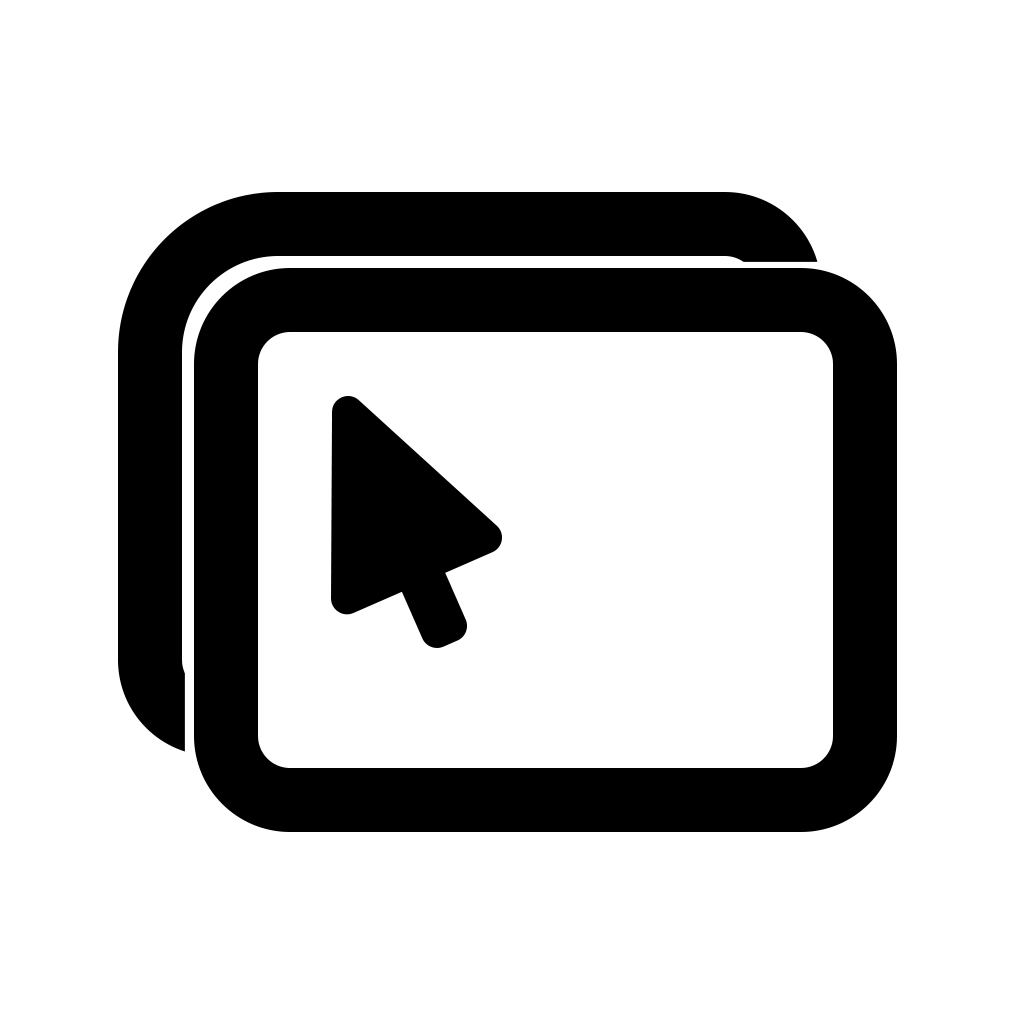
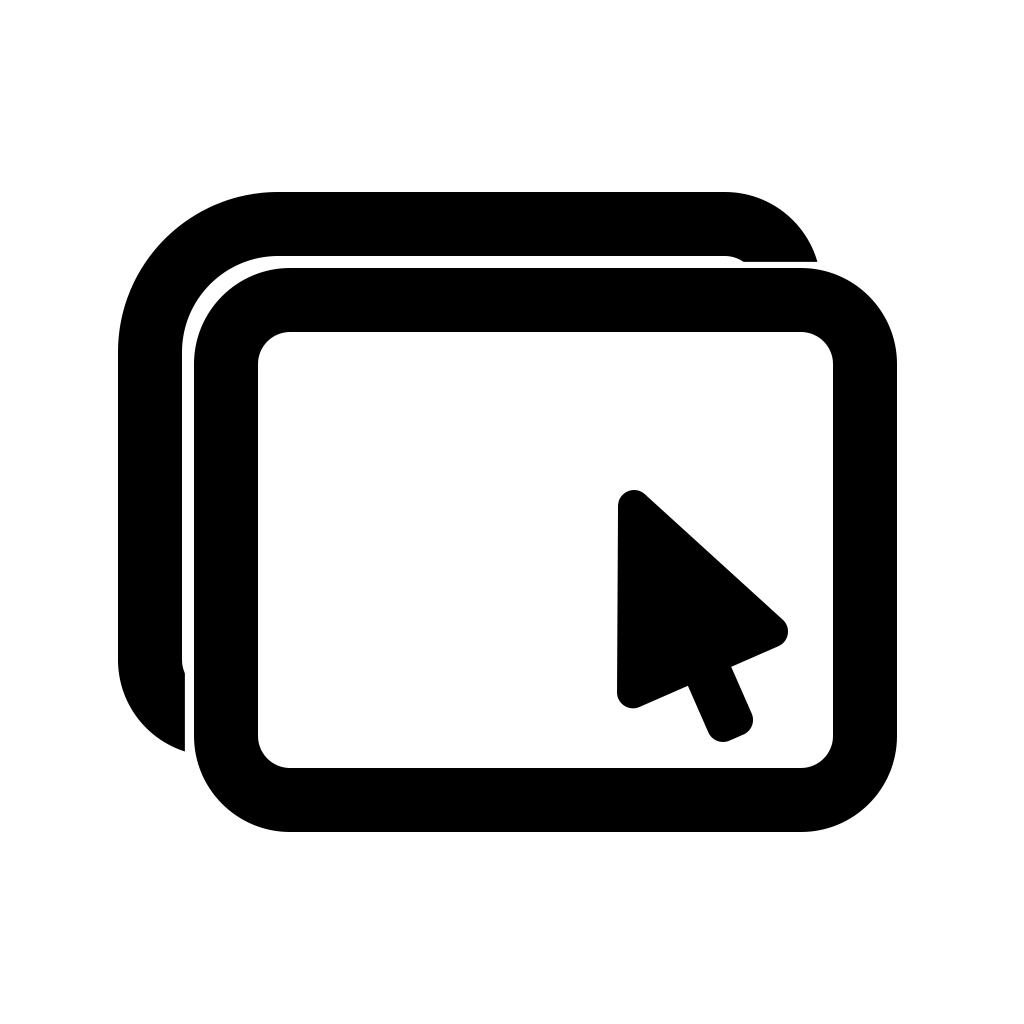
重绘部分UI，支持深色/浅色模式切换

Changed region(s): [[0.5938, 0.4688, 0.7812, 0.75], [0.3125, 0.375, 0.5, 0.6562]]

diff --git a/qml/components/TypeBar.qml b/qml/components/TypeBar.qml
@@ -1,10 +1,11 @@
+pragma ComponentBehavior: Bound
 import QtQuick
 import xcshop
 
 Rectangle {
     id: typeBar
     height: parent.height
-    width: 65
+    width: Constants.typeBarWidth
     color: Colors.foreground
     opacity: 0
     enabled: isEnabled
@@ -53,12 +54,12 @@ Rectangle {
     Rectangle{
         id: currentTypeRect
         z: 10
-        width:5
-        height: 64
+        width:3
+        height: Constants.typeBarWidth - 1
         x: 2
-        y: (typeBar.currentType == 0)? 1 : 3 + typeBar.currentType*64
+        y: (typeBar.currentType == 0)? 1 : 3 + typeBar.currentType * Constants.typeBarWidth
         color: Colors.border
-        //radius: 5
+        radius: 2
         Behavior on y{
             NumberAnimation{
                 duration: 120 / Global.animationSpeed
@@ -67,116 +68,92 @@ Rectangle {
         }
     }
 
-
-    ImageButton{
-        id: typeButtonTotal
+    component TypeButtonComponent: ImageButton{
+        id: typeButton
+        property string typeValue
         freeze: typeBar.freeze
-        z: 0
-        y: 1
-        btnSize: 64
-        imgSize: 48
-        btnRadius: 0
-        imageSource: "qrc:/assets/gui/typeBar/Total.png"
+        btnSize: Constants.typeBarWidth
+        imgSize: Constants.typeBarWidth * 3/4
+        btnRadius: 4
+        imageSource: "qrc:/assets/gui/typeBar/" + typeValue + "_" + Colors.gui_theme + ".png"
         btnSelected:(typeBar.currentType == z) ? true : false
         onClicked: {
+            if (typeValue == "更多") return
             typeBar.currentType = z
             setColor()
-            typeBar.typeBtnClicked("Total")
+            typeBar.typeBtnClicked(typeValue)
         }
+        Rectangle{
+            id: typeLore
+            visible: typeButton.hovered
+            height: 20
+            width: loreText.width + 16
+            anchors.verticalCenter: parent.verticalCenter
+            x: parent.width + 4
+            radius: 4
+            color: Colors.background_n
+            border.width: 1
+            border.color: Colors.border
+            XCText{
+                id: loreText
+                x: 8
+                y: 2
+                text: typeButton.typeValue
+                font.pixelSize: 12
+                color: Colors.text
+            }
+        }
+    }
+
+    TypeButtonComponent{
+        id: typeButtonTotal
+        z: 0
+        y: 1
+        typeValue: "Global"
     }
     Rectangle{
         width: parent.width
-        y: 65
+        y: Constants.typeBarWidth
         height: 2
-        color: "#FFFFFF"
+        color: Colors.gui_theme == "dark" ? "black" : "white"
     }
 
     Column{
         id: typeColumn
         width: parent.width
-        height: parent.height - 66
-        y: 67
+        height: parent.height - Constants.typeBarWidth
+        y: Constants.typeBarWidth + 2
 
-        ImageButton{
+        TypeButtonComponent{
             id: typeButtonUI
-            freeze: typeBar.freeze
             z: 1
-            y: 0
-            btnSize: 64
-            imgSize: 48
-            btnRadius: 0
-            imageSource: "qrc:/assets/gui/typeBar/UI_" + Colors.gui_theme + ".png"
-
-            btnSelected:(typeBar.currentType == z) ? true : false
-            onClicked: {
-                typeBar.currentType = z
-                setColor()
-                typeBar.typeBtnClicked("UI")
-            }
+            typeValue: "UI"
         }
-        ImageButton{
+        TypeButtonComponent{
             id: typeButtonItem
-            freeze: typeBar.freeze
             z: 2
-            y: 64
-            btnSize: 64
-            imgSize: 48
-            btnRadius: 0
-            imageSource: "qrc:/assets/gui/typeBar/Item.png"
-
-            btnSelected:(typeBar.currentType == z) ? true : false
-            onClicked: {
-                typeBar.currentType = z
-                setColor()
-                typeBar.typeBtnClicked("Item")
-            }
+            typeValue: "Item"
         }
-        ImageButton{
+        TypeButtonComponent{
             id: typeButtonCost
-            freeze: typeBar.freeze
             z: 3
-            y: 128
-            btnSize: 64
-            imgSize: 48
-            btnRadius: 0
-            imageSource: "qrc:/assets/gui/typeBar/Cost.png"
-
-            btnSelected:(typeBar.currentType == z) ? true : false
-            onClicked: {
-                typeBar.currentType = z
-                setColor()
-                typeBar.typeBtnClicked("Cost")
-            }
+            typeValue: "Cost"
         }
-        ImageButton{
+        TypeButtonComponent{
             id: typeButtonDisplay
-            freeze: typeBar.freeze
             z: 4
-            y: 192
-            btnSize: 64
-            imgSize: 48
-            btnRadius: 0
-            imageSource: "qrc:/assets/gui/typeBar/Display.png"
-
-            btnSelected:(typeBar.currentType == z) ? true : false
-            onClicked: {
-                typeBar.currentType = z
-                setColor()
-                typeBar.typeBtnClicked("Display")
-            }
+            typeValue: "Display"
         }
 
     }
 
-    ImageButton{
+    TypeButtonComponent{
         id: typeButtonExtra
-        freeze: typeBar.freeze
+        freeze: false
         z: 12
         y: parent.height - height
-        btnSize: 64
-        imgSize: 48
-        btnRadius: 32
-        imageSource: "qrc:/assets/gui/typeBar/Display.png"
+        imageSource: "qrc:/assets/gui/typeBar/Extra_" + Colors.gui_theme + ".png"
+        typeValue: "更多"
 
         onClicked:{
             typeBar.extraMenuOpened = !typeBar.extraMenuOpened

diff --git a/qml/Main.qml b/qml/Main.qml
@@ -71,14 +71,14 @@ XCWindow {
             Global.current_element = typeName   //after的作用是取消动画
             // 中转区可以直接调用 typeSwitch；同步类型栏的视觉选中态，不能只依赖按钮点击。
             switch(typeName){
-                case "Total": typeBar.currentType = 0; break
+                case "Global": typeBar.currentType = 0; break
                 case "UI": typeBar.currentType = 1; break
                 case "Item": typeBar.currentType = 2; break
                 case "Cost": typeBar.currentType = 3; break
                 case "Display": typeBar.currentType = 4; break
             }
             if(!after)elementExplorer.floderReset()
-            if(typeName === "Total"){
+            if(typeName === "Global"){
                 elementExplorer.barHide()
                 pageLoader.pageSwitch(Constants.pageOnTotal)
             }else{
@@ -212,7 +212,7 @@ XCWindow {
             id:pageLoader
             parent: popupBlurSource
             
-            x: Math.max(root.pageX,65)
+            x: Math.max(root.pageX, Constants.typeBarWidth)
             y: root.workspaceChromeVisible ? fileControlsBar.height : 0
             height: Math.max(0, root.height - y - elementRelayBar.height)
             width: root.workspaceChromeVisible ? root.width - x : root.width - x + 65
@@ -274,7 +274,7 @@ XCWindow {
                             switch(parameters.object){
                                 case "projectOpened":
                                     typeBar.enable(false)
-                                    root.typeSwitch("Total", true)
+                                    root.typeSwitch("Global", true)
                                 break;case "settings":
                                     root.settingsFromWorkspace = false
                                     pageLoader.pageSwitch(Constants.pageOnSettings)

diff --git a/qml/components/base/ImageButton.qml b/qml/components/base/ImageButton.qml
@@ -13,9 +13,9 @@ Rectangle {
     property int btnRadius: 3
     property bool btnSelected: false
     property bool freeze: false
-    property bool hovered: false
     property bool pressed: false
     property int imgSize_: imgSize
+    readonly property bool hovered : hoverHandler.hovered
 
     signal clicked()
 
@@ -50,17 +50,18 @@ Rectangle {
         NumberAnimation { duration: 50 / Global.animationSpeed; easing.type: Easing.InOutQuad }
     }
 
+    HoverHandler{
+        id: hoverHandler
+    }
     MouseArea {
         visible: !root.btnSelected && !root.freeze && root.enabled
         anchors.fill: parent
         hoverEnabled: true
         onClicked: root.clicked()
         onEntered: {
-            root.hovered = true
             root.imgSize_ = root.imgSize + 6
         }
         onExited: {
-            root.hovered = false
             root.pressed = false
             root.imgSize_ = root.imgSize
         }

diff --git a/qml/components/FileSystem/FileCtrlBar.qml b/qml/components/FileSystem/FileCtrlBar.qml
@@ -66,7 +66,7 @@ Item{
         y: 5
         btnSize: 24
         btnRadius: 3
-        imageSource: "qrc:/assets/gui/element/Bar/newMenu.png"
+        imageSource: "qrc:/assets/gui/element/Bar/newMenu_" + Colors.gui_theme + ".png"
         onClicked:{
             root.createFloder = true
             createBar.visible = true
@@ -77,7 +77,7 @@ Item{
         y: 5
         btnSize: 24
         btnRadius: 3
-        imageSource: "qrc:/assets/gui/element/Bar/newFile.png"
+        imageSource: "qrc:/assets/gui/element/Bar/newFile_" + Colors.gui_theme + ".png"
         onClicked:{
             root.createFloder = false
             createBar.visible = true

diff --git a/qml/components/ElementExplorer.qml b/qml/components/ElementExplorer.qml
@@ -12,7 +12,7 @@ Rectangle{
     readonly property bool started: Global.get_fileName().length > 0
     width: isShowing ? barWidth : 0
     height: parent.height
-    x:65
+    x: Constants.typeBarWidth
     color: Colors.foreground
     clip: true
     enabled: isShowing
@@ -49,7 +49,7 @@ Rectangle{
         onTriggered:{
             xcFileTree.currentFolder = root.pendingFolder
             root.pendingFolder = ""
-            if(Global.current_element != "Total")treeAnim.start()
+            if(Global.current_element != "Global")treeAnim.start()
         }
         
     }

diff --git a/qml/Global.qml b/qml/Global.qml
@@ -31,12 +31,12 @@ QtObject{
 
 
 
-    property string current_element: "Total"
+    property string current_element: "Global"
     property int current_enum: 0     //enum:element_number，用于以数字形式存储元素类型
     onCurrent_elementChanged:{
         function set_enum(){
             switch(current_element){
-            case   "Total":return 0
+            case   "Global":return 0
             case      "UI":return 1
             case    "Item":return 2
             case    "Cost":return 3

diff --git a/qml/components/base/ElementSelection.qml b/qml/components/base/ElementSelection.qml
@@ -23,7 +23,7 @@ Rectangle {
         case "item": return "qrc:/assets/gui/element/Item.png"
         case "cost": return "qrc:/assets/gui/element/Cost.png"
         case "display": return "qrc:/assets/gui/element/Display.png"
-        default: return "qrc:/assets/gui/element/File.png"
+        default: return "qrc:/assets/gui/element/File_" + Colors.gui_theme + ".png"
         }
     }
     readonly property string selectionTypeName: {

diff --git a/qml/components/base/ElementSelectionCompact.qml b/qml/components/base/ElementSelectionCompact.qml
@@ -22,7 +22,7 @@ Rectangle {
         case "item": return "qrc:/assets/gui/element/Item.png"
         case "cost": return "qrc:/assets/gui/element/Cost.png"
         case "display": return "qrc:/assets/gui/element/Display.png"
-        default: return "qrc:/assets/gui/element/File.png"
+        default: return "qrc:/assets/gui/element/File_" + Colors.gui_theme + ".png"
         }
     }
     readonly property string selectionTypeName: {

diff --git a/qml/components/FileSystem/XCFileTreeBar.qml b/qml/components/FileSystem/XCFileTreeBar.qml
@@ -608,7 +608,7 @@ Item {
                 width: directoryList.width
                 height: 26
                 text: model.fileBaseName
-                icon: "File"
+                icon: "File_" + Colors.gui_theme
                 acceptsElementDrop: true
                 operationSelected: root.selectedDirectoryPath === directoryPath
                 operationMode: root.operationMode

diff --git a/qml/Constants.qml b/qml/Constants.qml
@@ -7,6 +7,7 @@ QtObject{
     readonly property int margins: 32
     readonly property int window_radius: 8
     readonly property int titleBarHeight: 36
+    readonly property int typeBarWidth: 48
 
     // url
     readonly property string url_templates: "https://xczongzi.github.io/AppOnlineData-xcshop/templates.json"

diff --git a/qml/pages/base/BasePage.qml b/qml/pages/base/BasePage.qml
@@ -20,7 +20,7 @@ Rectangle{
     function executeFromMain(type,parameters){}
     function setScrollOffset(offset){ scrollBar.setContentOffset(offset) }
 
-    x: fullScreen? -65 : 0
+    x: fullScreen? -Constants.typeBarWidth : 0
     color: "black"
     clip: true
     bottomLeftRadius: Constants.window_radius

diff --git a/qml/pages/PageOnStart.qml b/qml/pages/PageOnStart.qml
@@ -41,7 +41,7 @@ BasePage {
         }
 
         Global.project_location = projectPath
-        Global.current_element = "Total"
+        Global.current_element = "Global"
         Global.rememberProject(projectPath, projectInfo)
         pageEvent("Start.", { "object": "projectOpened" })
     }
